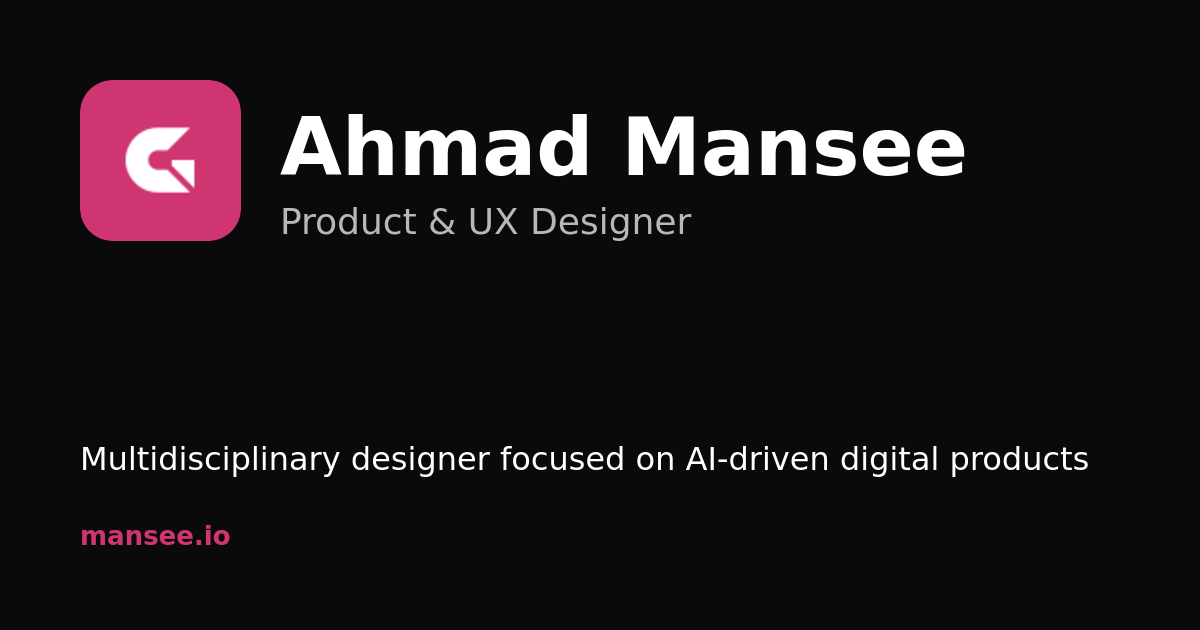
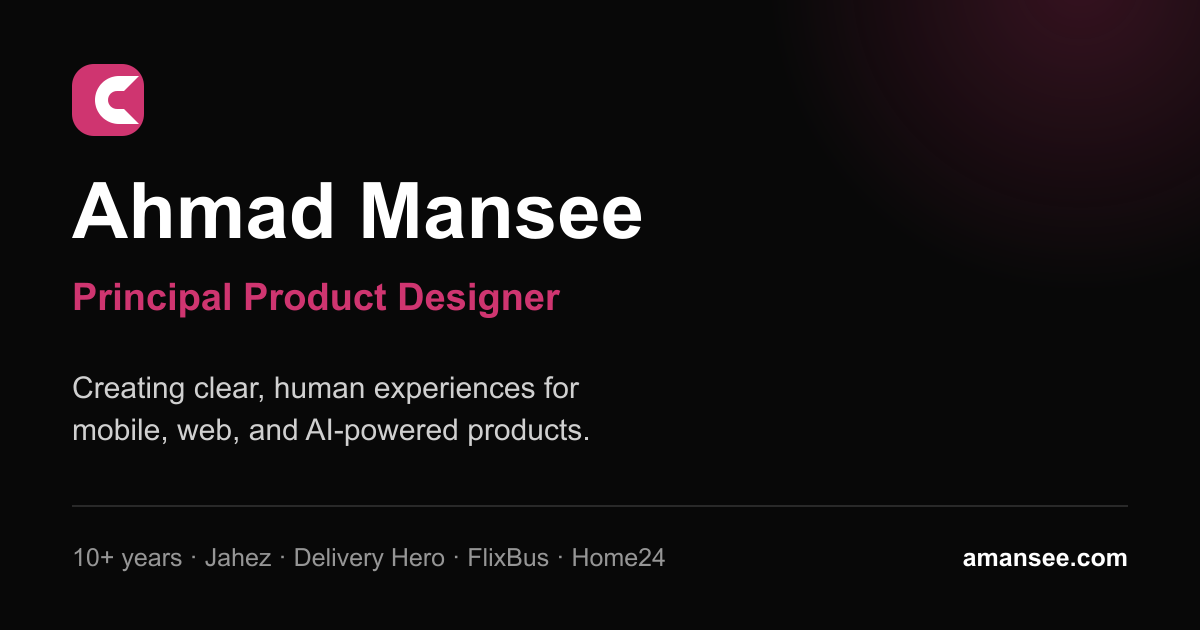
Improve portfolio SEO and social sharing

diff --git a/client/index.html b/client/index.html
@@ -3,16 +3,23 @@
   <head>
     <meta charset="UTF-8" >
     <meta name="viewport" content="width=device-width, initial-scale=1.0, maximum-scale=1" >
-    <title>Ahmad Mansee — Product & UX Designer</title>
-    <meta name="description" content="Portfolio of Ahmad Mansee — Product & UX Designer crafting thoughtful digital experiences across mobile, web, and AI products." >
-    <meta property="og:title" content="Ahmad Mansee — Product & UX Designer" >
-    <meta property="og:description" content="Portfolio of Ahmad Mansee — Product & UX Designer crafting thoughtful digital experiences across mobile, web, and AI products." >
+    <title>Ahmad Mansee — Principal Product Designer</title>
+    <meta name="description" content="Principal Product Designer with 10+ years of experience creating clear, human experiences for mobile, web, and AI-powered products." >
+    <meta name="robots" content="index, follow" >
+    <link rel="canonical" href="https://amansee.com/" >
+    <meta property="og:title" content="Ahmad Mansee — Principal Product Designer" >
+    <meta property="og:description" content="Principal Product Designer with 10+ years of experience creating clear, human experiences for mobile, web, and AI-powered products." >
     <meta property="og:type" content="website" >
-    <meta property="og:image" content="/og-image.png" >
+    <meta property="og:url" content="https://amansee.com/" >
+    <meta property="og:site_name" content="Ahmad Mansee Portfolio" >
+    <meta property="og:image" content="https://amansee.com/og-image.png" >
+    <meta property="og:image:alt" content="Ahmad Mansee — Principal Product Designer" >
     <meta property="og:image:width" content="1200" >
     <meta property="og:image:height" content="630" >
     <meta name="twitter:card" content="summary_large_image" >
-    <meta name="twitter:image" content="/og-image.png" >
+    <meta name="twitter:title" content="Ahmad Mansee — Principal Product Designer" >
+    <meta name="twitter:description" content="Principal Product Designer with 10+ years of experience creating clear, human experiences for mobile, web, and AI-powered products." >
+    <meta name="twitter:image" content="https://amansee.com/og-image.png" >
     <meta name="theme-color" content="#cf3570" >
     <link rel="icon" type="image/svg+xml" href="/favicon.svg" >
     <link rel="icon" type="image/png" sizes="32x32" href="/favicon-32.png" >
@@ -21,6 +28,24 @@
     <link rel="preconnect" href="https://fonts.googleapis.com">
     <link rel="preconnect" href="https://fonts.gstatic.com" crossorigin>
     <link href="https://fonts.googleapis.com/css2?family=Inter+Tight:wght@400;500;600;700&family=Be+Vietnam+Pro:wght@400;500;600&family=Manrope:wght@400;500;600;700&display=swap" rel="stylesheet">
+    <script type="application/ld+json">
+      {
+        "@context": "https://schema.org",
+        "@type": "Person",
+        "name": "Ahmad Mansee",
+        "url": "https://amansee.com/",
+        "image": "https://amansee.com/og-image.png",
+        "jobTitle": "Principal Product Designer",
+        "sameAs": ["https://www.linkedin.com/in/ahmadmansee/"],
+        "knowsAbout": [
+          "Product design",
+          "User experience design",
+          "Interaction design",
+          "Conversational design",
+          "AI-powered products"
+        ]
+      }
+    </script>
   </head>
   <body>
     <div id="root"></div>

diff --git a/client/src/components/PageMeta.tsx b/client/src/components/PageMeta.tsx
@@ -3,7 +3,11 @@ import { useEffect } from "react";
 interface PageMetaProps {
   title: string;
   description?: string;
+  image?: string;
+  noIndex?: boolean;
 }
+
+const SITE_URL = "https://amansee.com";
 
 const upsertMeta = (attr: "name" | "property", key: string, content: string) => {
   let el = document.head.querySelector(`meta[${attr}="${key}"]`) as HTMLMetaElement | null;
@@ -15,17 +19,44 @@ const upsertMeta = (attr: "name" | "property", key: string, content: string) => 
   el.setAttribute("content", content);
 };
 
-export const PageMeta = ({ title, description }: PageMetaProps) => {
+const upsertCanonical = (href: string) => {
+  let el = document.head.querySelector('link[rel="canonical"]') as HTMLLinkElement | null;
+  if (!el) {
+    el = document.createElement("link");
+    el.rel = "canonical";
+    document.head.appendChild(el);
+  }
+  el.href = href;
+};
+
+export const PageMeta = ({
+  title,
+  description,
+  image = "/og-image.png",
+  noIndex = false,
+}: PageMetaProps) => {
   useEffect(() => {
+    const canonicalUrl = `${SITE_URL}${window.location.pathname === "/" ? "" : window.location.pathname}`;
+    const imageUrl = image.startsWith("http") ? image : `${SITE_URL}${image}`;
+
     document.title = title;
+    upsertCanonical(canonicalUrl);
+    upsertMeta("name", "robots", noIndex ? "noindex, nofollow" : "index, follow");
     upsertMeta("property", "og:title", title);
+    upsertMeta("property", "og:type", "website");
+    upsertMeta("property", "og:url", canonicalUrl);
+    upsertMeta("property", "og:image", imageUrl);
+    upsertMeta("property", "og:image:alt", `${title} social preview`);
+    upsertMeta("property", "og:site_name", "Ahmad Mansee Portfolio");
+    upsertMeta("name", "twitter:card", "summary_large_image");
     upsertMeta("name", "twitter:title", title);
+    upsertMeta("name", "twitter:image", imageUrl);
     if (description) {
       upsertMeta("name", "description", description);
       upsertMeta("property", "og:description", description);
       upsertMeta("name", "twitter:description", description);
     }
-  }, [title, description]);
+  }, [title, description, image, noIndex]);
 
   return null;
 };

diff --git a/client/src/pages/Home.tsx b/client/src/pages/Home.tsx
@@ -133,8 +133,8 @@ export const Home = () => {
   return (
     <div className="bg-black min-h-screen w-full">
       <PageMeta
-        title="Ahmad Mansee — Product & UX Designer"
-        description="Multidisciplinary designer focused on AI-driven digital products. See my work across mobile, web, and AI experiences."
+        title="Ahmad Mansee — Principal Product Designer"
+        description="Principal Product Designer with 10+ years of experience creating clear, human experiences for mobile, web, and AI-powered products."
       />
       <Navbar />
 

diff --git a/client/src/pages/not-found.tsx b/client/src/pages/not-found.tsx
@@ -8,7 +8,7 @@ import { PageMeta } from "@/components/PageMeta";
 export default function NotFound() {
   return (
     <div className="bg-black min-h-screen w-full flex flex-col">
-      <PageMeta title="404 — Page not found | Ahmad Mansee" description="Looks like that page took a wrong turn." />
+      <PageMeta title="404 — Page not found | Ahmad Mansee" description="Looks like that page took a wrong turn." noIndex />
       <Navbar />
       <main className="flex-1 flex flex-col items-center justify-center px-6 py-20 text-center">
         <motion.div

diff --git a/client/src/pages/About.tsx b/client/src/pages/About.tsx
@@ -70,7 +70,7 @@ export const About = () => {
     <div className="bg-black min-h-screen w-full">
       <PageMeta
         title="About — Ahmad Mansee"
-        description="Multidisciplinary product designer with 10+ years across DeliveryHero, FlixMobility, Home24, and now Jahez Group. Berlin-based, working remotely worldwide."
+        description="Principal Product Designer with 10+ years across Jahez, Delivery Hero, FlixBus, and Home24, focused on mobile, web, and AI-powered products."
       />
       <Navbar />
 
